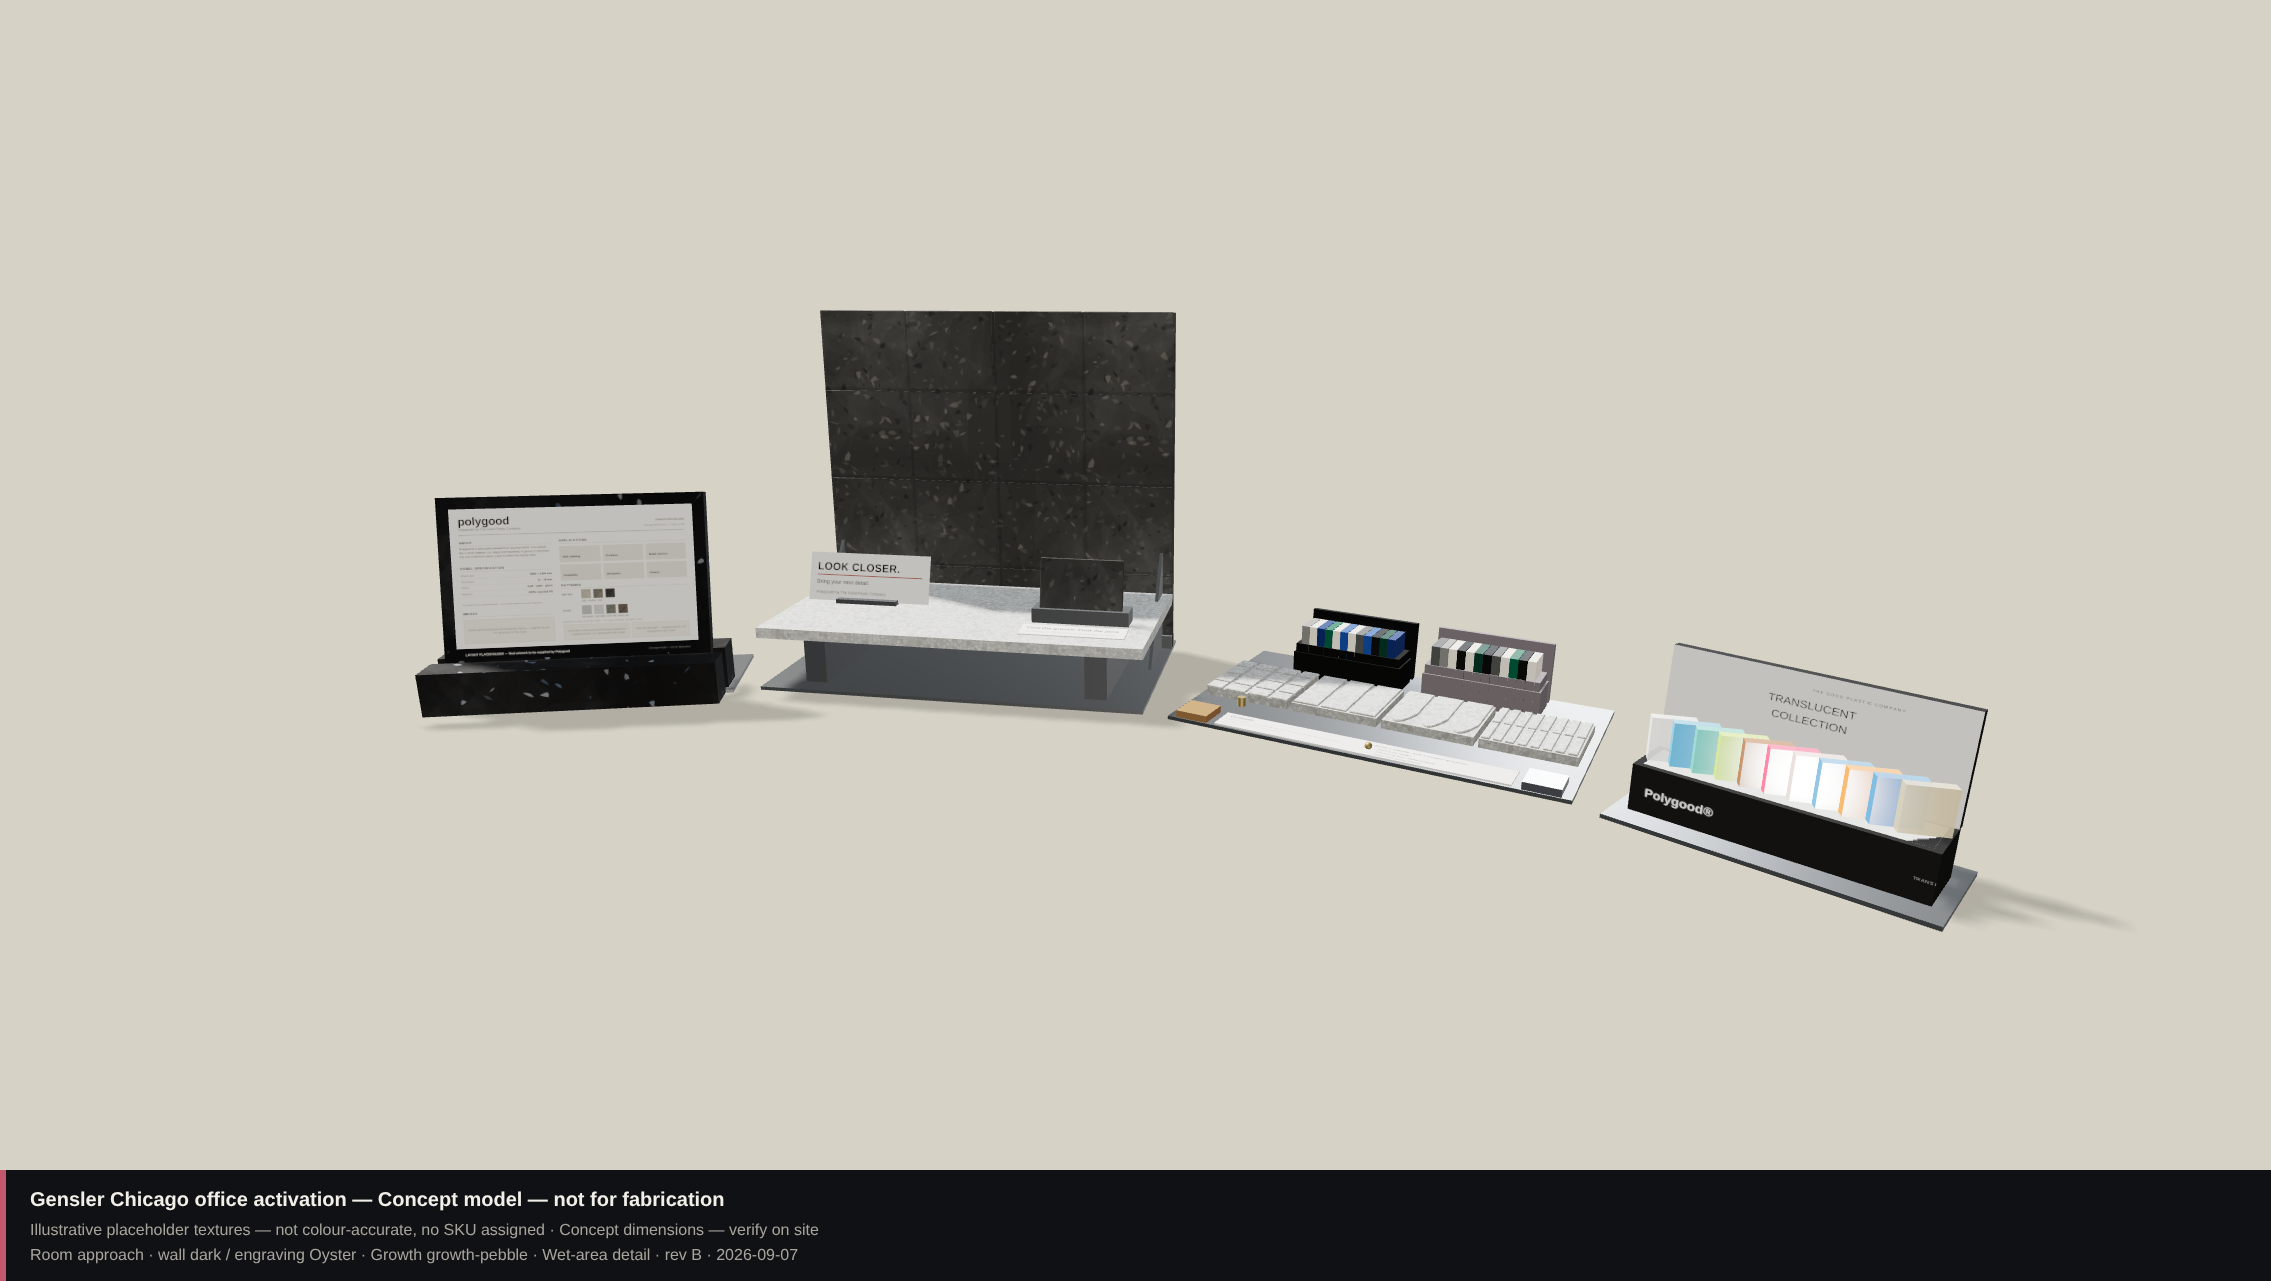
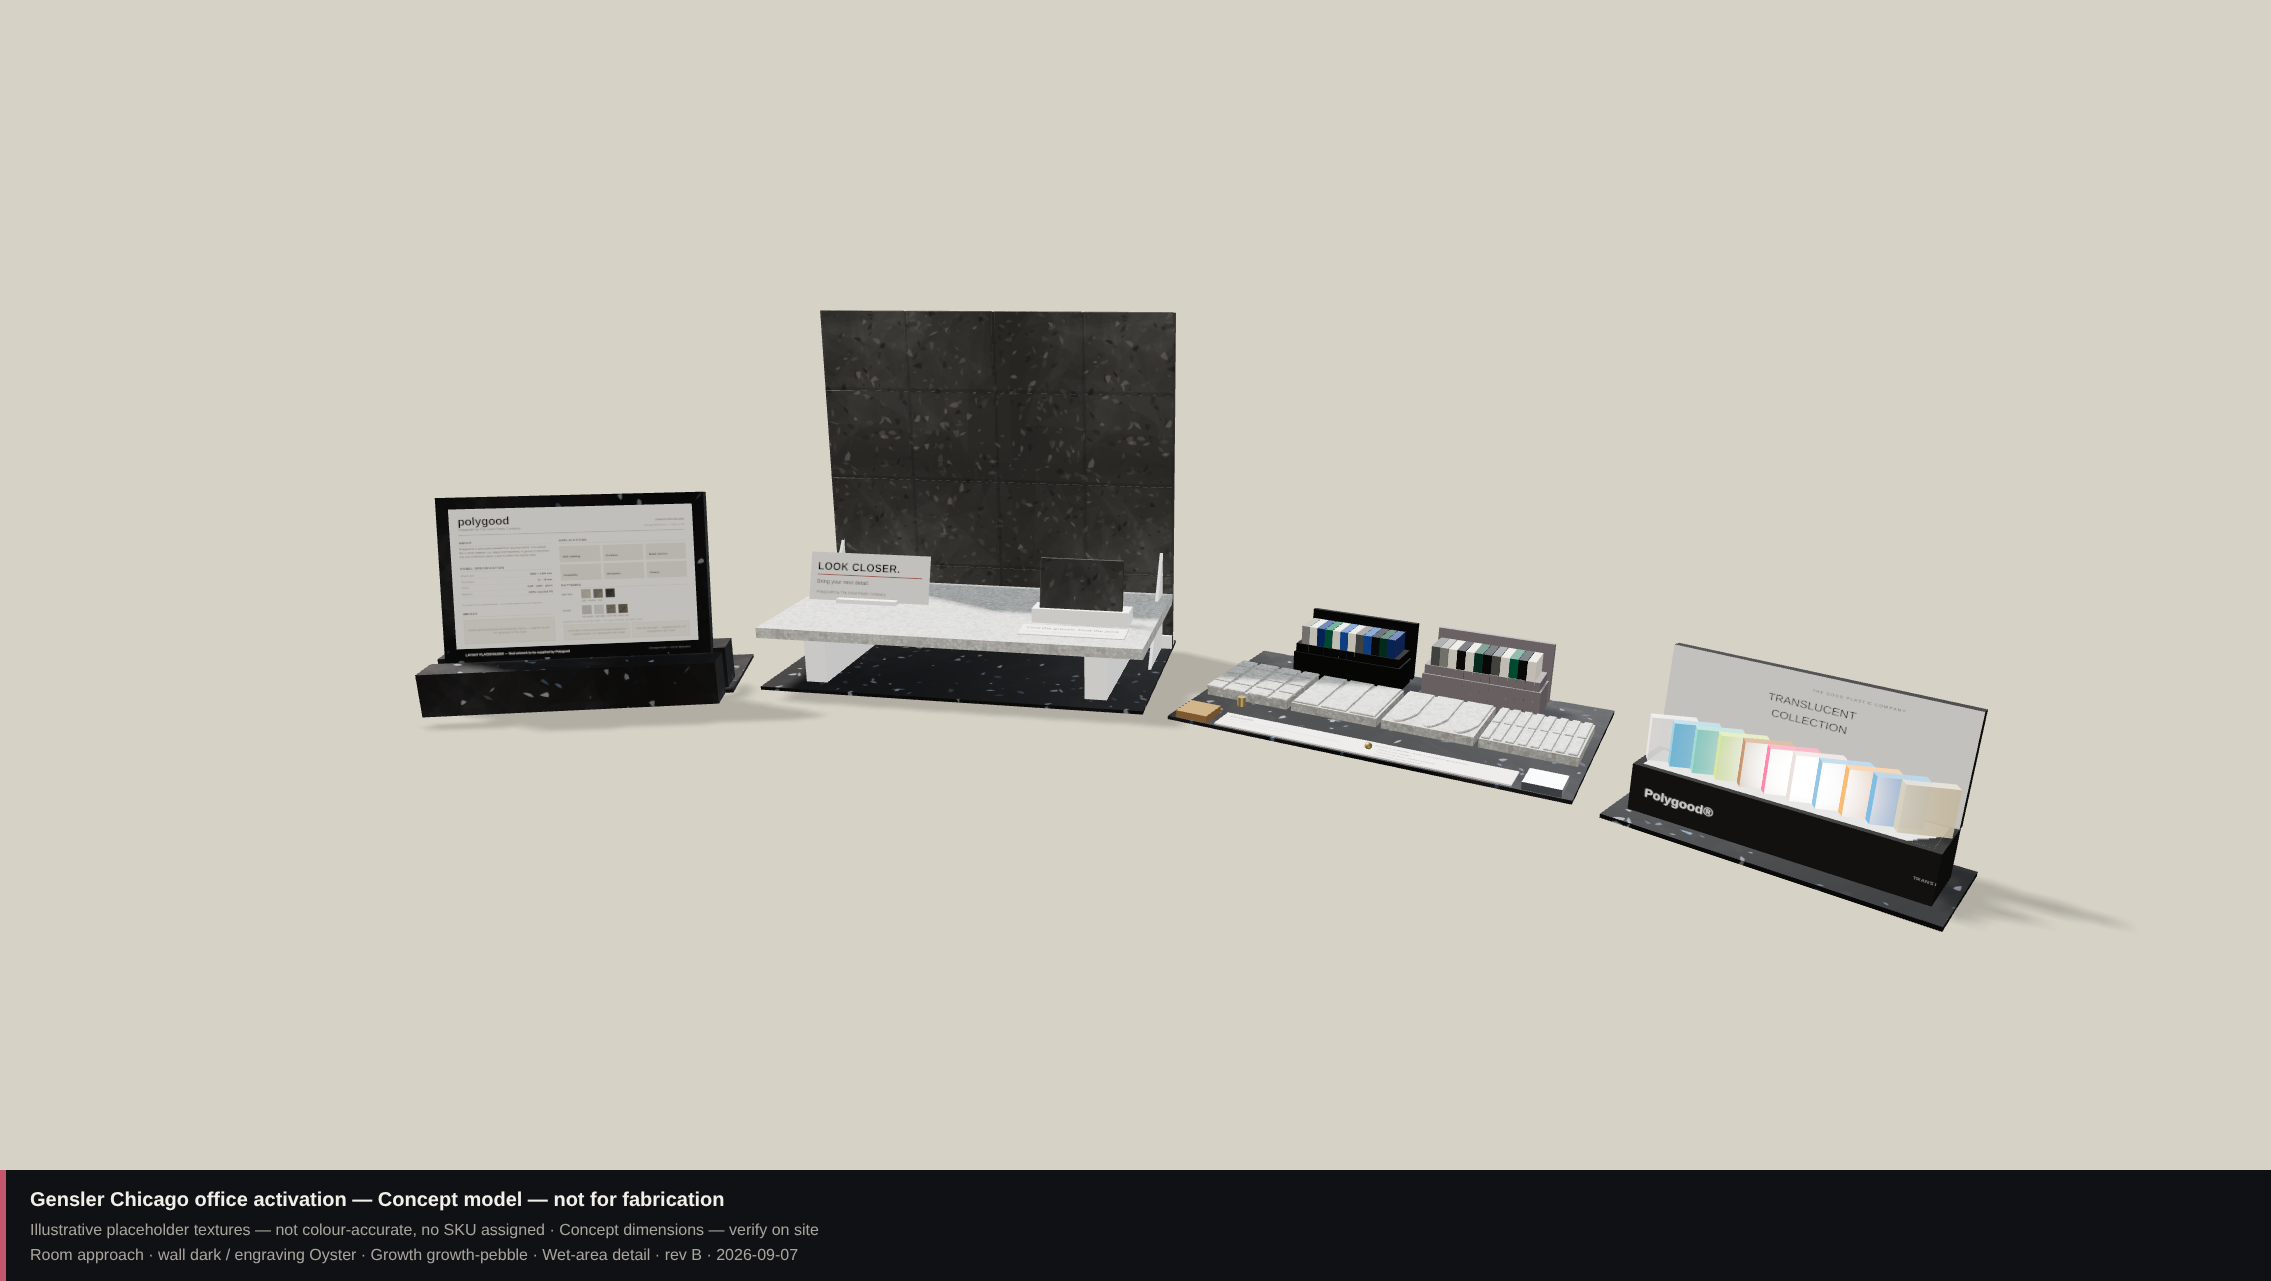
Set the production finish: white stands, black base tile
The support metalwork — trays' structure, rails, fins, gussets, cradles — is
now white, and the base each assembly stands on is a black Polygood panel.
Both live in config.js under `finish`, so the production group can move either
without touching code.

Structure and material are kept as different kinds of thing. `stand` is a paint
or powder-coat colour on the support. `baseTile` names a real surface from
standSurfaces, so the base is built as a PANEL: it carries the texture and is
UV-mapped from its own extents like every other panel in the model. Painting
the base a flat black instead would have made the model quietly misrepresent
what is being ordered — the schedule lists three 500 x 500 dark panels for the
lower part of the pedestal, not a painted tray.

The base uses `nightfleck`, the dark pale-flecked surface supplied as a
photograph. It reads black and stays illustrative: not colour accurate, no SKU.

For the record, the supports have been the same dark grey since the first
commit, so this is a new decision rather than a restoration of an earlier
render. Noted in the README so nobody looks for the render it came from.

Fit check re-run and unchanged: envelope 2368 mm against 1400 mm allocated,
depth still passing.

Claude-Session: https://claude.ai/code/session_01RrtzjYnURxMGb191qk9yjN

Changed region(s): [[0.3082, 0.4684, 0.7089, 0.6245], [0.7089, 0.6245, 0.8014, 0.687], [0.8014, 0.687, 0.8631, 0.7182]]

diff --git a/spaces/gensler-chicago-activation/dist/index.html b/spaces/gensler-chicago-activation/dist/index.html
@@ -390,6 +390,20 @@ window.PG_CONFIG = {
                                 // palette | translucent | orientation | logistics
   },
 
+  /* ── production finish ─────────────────────────────────────────────────
+     The stands are WHITE and the tile they stand on is BLACK. Structure and
+     material are deliberately different things here: `stand` is a paint or
+     powder-coat finish on the support metalwork, while `baseTile` names a
+     real Polygood surface from standSurfaces — the base is a panel, not a
+     painted tray, which is why it carries a texture and the stands do not. */
+  finish: {
+    stand:      '#f4f4f2',    // trays' structure, rails, fins, gussets, cradles
+    standRough: 0.52,
+    standMetal: 0.0,
+    pad:        '#e9e9e6',    // protective contact pads
+    baseTile:   'nightfleck'  // standSurfaces id — the tile beneath
+  },
+
   engravingReferenceSheet: 300,   // assumed sheet size the proportions came from
   engravings: [
     { id: 'oyster',     name: 'Oyster',     ref: '01', shape: 'rect',    cellW: 43,   cellH: 43  },
@@ -1905,9 +1919,27 @@ var sampleMats = CFG.engravings.map(function (e, i) {
   return surfaceMaterial(I.palette.sampleSize, I.palette.sampleSize, 51 + i * 13);
 });
 
-var matTray   = new THREE.MeshStandardMaterial({ color: 0x232527, roughness: 0.44, metalness: 0.62, envMapIntensity: 0.5 });
-var matRail   = new THREE.MeshStandardMaterial({ color: 0x1d1f21, roughness: 0.5,  metalness: 0.55, envMapIntensity: 0.45 });
-var matPad    = new THREE.MeshStandardMaterial({ color: 0x14161a, roughness: 0.95, envMapIntensity: 0.2 });
+/* The stands are white; the tile they stand on is black. Both come from
+   CFG.finish so the production group can move either without touching code.
+   Legacy colour management is on, so every hex here goes through srgb(). */
+var FIN = CFG.finish;
+var matRail = new THREE.MeshStandardMaterial({
+  color: srgb(FIN.stand), roughness: FIN.standRough, metalness: FIN.standMetal, envMapIntensity: 0.42 });
+var matPad  = new THREE.MeshStandardMaterial({
+  color: srgb(FIN.pad), roughness: 0.95, envMapIntensity: 0.2 });
+
+/* The base is a PANEL, not a painted tray, so it carries the surface rather
+   than a flat colour — and it is UV-mapped from its own extents like every
+   other panel, or the tile pattern would stretch to each face. */
+function trayMesh(wM, dM, seed) {
+  var geo = new THREE.BoxGeometry(wM, trayT, dM);
+  PG.planarUV(geo, wM / 2, dM / 2, mm(TILE));
+  var m = surfaceMaterial(wM * 1000, dM * 1000, seed);
+  applySurface(m, FIN.baseTile);
+  var mesh = new THREE.Mesh(geo, m);
+  mesh.castShadow = true; mesh.receiveShadow = true;
+  return mesh;
+}
 var matMarker = new THREE.MeshStandardMaterial({ color: 0x8a6a2e, roughness: 0.35, metalness: 0.8, envMapIntensity: 0.6 });
 function srgb(hex) { return new THREE.Color(hex).convertSRGBToLinear(); }
 
@@ -2018,7 +2050,7 @@ var trayT = mm(6), padT = mm(I.base.padThickness);
   pad.position.set(p[0], padT / 2, p[1]); gMain.add(pad);
 });
 
-var tray = new THREE.Mesh(new THREE.BoxGeometry(A.w, trayT, A.d), matTray);
+var tray = trayMesh(A.w, A.d, 71);
 tray.position.set(0, padT + trayT / 2, -A.d / 2);
 tray.castShadow = true; tray.receiveShadow = true;
 gMain.add(tray);
@@ -2116,7 +2148,7 @@ var B = { w: mm(I.palette.width), d: mm(I.palette.depth) };
   var pad = new THREE.Mesh(new THREE.BoxGeometry(0.06, padT, 0.06), matPad);
   pad.position.set(p[0], padT / 2, p[1]); gPal.add(pad);
 });
-var palTray = new THREE.Mesh(new THREE.BoxGeometry(B.w, trayT, B.d), matTray);
+var palTray = trayMesh(B.w, B.d, 73);
 palTray.position.set(0, padT + trayT / 2, -B.d / 2);
 palTray.castShadow = true; palTray.receiveShadow = true;
 gPal.add(palTray);
@@ -2419,7 +2451,7 @@ var IS = I.infoStand;
     var pad = new THREE.Mesh(new THREE.BoxGeometry(0.055, padT, 0.055), matPad);
     pad.position.set(p[0], padT / 2, p[1]); gInfo.add(pad);
   });
-  var tray = new THREE.Mesh(new THREE.BoxGeometry(mm(IS.unit.width), trayT, mm(IS.unit.depth)), matTray);
+  var tray = trayMesh(mm(IS.unit.width), mm(IS.unit.depth), 79);
   tray.position.set(0, padT + trayT / 2, -mm(IS.unit.depth) / 2);
   tray.castShadow = true; tray.receiveShadow = true; gInfo.add(tray);
 
@@ -2479,7 +2511,7 @@ var transTrayTop = padT + trayT;
   var pad = new THREE.Mesh(new THREE.BoxGeometry(0.055, padT, 0.055), matPad);
   pad.position.set(p[0], padT / 2, p[1]); gTrans.add(pad);
 });
-var transTray = new THREE.Mesh(new THREE.BoxGeometry(mm(TU.width), trayT, mm(TU.depth)), matTray);
+var transTray = trayMesh(mm(TU.width), mm(TU.depth), 83);
 transTray.position.set(0, padT + trayT / 2, -mm(TU.depth) / 2);
 transTray.castShadow = true; transTray.receiveShadow = true;
 gTrans.add(transTray);

diff --git a/spaces/gensler-chicago-activation/installation.js b/spaces/gensler-chicago-activation/installation.js
@@ -132,9 +132,27 @@ var sampleMats = CFG.engravings.map(function (e, i) {
   return surfaceMaterial(I.palette.sampleSize, I.palette.sampleSize, 51 + i * 13);
 });
 
-var matTray   = new THREE.MeshStandardMaterial({ color: 0x232527, roughness: 0.44, metalness: 0.62, envMapIntensity: 0.5 });
-var matRail   = new THREE.MeshStandardMaterial({ color: 0x1d1f21, roughness: 0.5,  metalness: 0.55, envMapIntensity: 0.45 });
-var matPad    = new THREE.MeshStandardMaterial({ color: 0x14161a, roughness: 0.95, envMapIntensity: 0.2 });
+/* The stands are white; the tile they stand on is black. Both come from
+   CFG.finish so the production group can move either without touching code.
+   Legacy colour management is on, so every hex here goes through srgb(). */
+var FIN = CFG.finish;
+var matRail = new THREE.MeshStandardMaterial({
+  color: srgb(FIN.stand), roughness: FIN.standRough, metalness: FIN.standMetal, envMapIntensity: 0.42 });
+var matPad  = new THREE.MeshStandardMaterial({
+  color: srgb(FIN.pad), roughness: 0.95, envMapIntensity: 0.2 });
+
+/* The base is a PANEL, not a painted tray, so it carries the surface rather
+   than a flat colour — and it is UV-mapped from its own extents like every
+   other panel, or the tile pattern would stretch to each face. */
+function trayMesh(wM, dM, seed) {
+  var geo = new THREE.BoxGeometry(wM, trayT, dM);
+  PG.planarUV(geo, wM / 2, dM / 2, mm(TILE));
+  var m = surfaceMaterial(wM * 1000, dM * 1000, seed);
+  applySurface(m, FIN.baseTile);
+  var mesh = new THREE.Mesh(geo, m);
+  mesh.castShadow = true; mesh.receiveShadow = true;
+  return mesh;
+}
 var matMarker = new THREE.MeshStandardMaterial({ color: 0x8a6a2e, roughness: 0.35, metalness: 0.8, envMapIntensity: 0.6 });
 function srgb(hex) { return new THREE.Color(hex).convertSRGBToLinear(); }
 
@@ -245,7 +263,7 @@ var trayT = mm(6), padT = mm(I.base.padThickness);
   pad.position.set(p[0], padT / 2, p[1]); gMain.add(pad);
 });
 
-var tray = new THREE.Mesh(new THREE.BoxGeometry(A.w, trayT, A.d), matTray);
+var tray = trayMesh(A.w, A.d, 71);
 tray.position.set(0, padT + trayT / 2, -A.d / 2);
 tray.castShadow = true; tray.receiveShadow = true;
 gMain.add(tray);
@@ -343,7 +361,7 @@ var B = { w: mm(I.palette.width), d: mm(I.palette.depth) };
   var pad = new THREE.Mesh(new THREE.BoxGeometry(0.06, padT, 0.06), matPad);
   pad.position.set(p[0], padT / 2, p[1]); gPal.add(pad);
 });
-var palTray = new THREE.Mesh(new THREE.BoxGeometry(B.w, trayT, B.d), matTray);
+var palTray = trayMesh(B.w, B.d, 73);
 palTray.position.set(0, padT + trayT / 2, -B.d / 2);
 palTray.castShadow = true; palTray.receiveShadow = true;
 gPal.add(palTray);
@@ -646,7 +664,7 @@ var IS = I.infoStand;
     var pad = new THREE.Mesh(new THREE.BoxGeometry(0.055, padT, 0.055), matPad);
     pad.position.set(p[0], padT / 2, p[1]); gInfo.add(pad);
   });
-  var tray = new THREE.Mesh(new THREE.BoxGeometry(mm(IS.unit.width), trayT, mm(IS.unit.depth)), matTray);
+  var tray = trayMesh(mm(IS.unit.width), mm(IS.unit.depth), 79);
   tray.position.set(0, padT + trayT / 2, -mm(IS.unit.depth) / 2);
   tray.castShadow = true; tray.receiveShadow = true; gInfo.add(tray);
 
@@ -706,7 +724,7 @@ var transTrayTop = padT + trayT;
   var pad = new THREE.Mesh(new THREE.BoxGeometry(0.055, padT, 0.055), matPad);
   pad.position.set(p[0], padT / 2, p[1]); gTrans.add(pad);
 });
-var transTray = new THREE.Mesh(new THREE.BoxGeometry(mm(TU.width), trayT, mm(TU.depth)), matTray);
+var transTray = trayMesh(mm(TU.width), mm(TU.depth), 83);
 transTray.position.set(0, padT + trayT / 2, -mm(TU.depth) / 2);
 transTray.castShadow = true; transTray.receiveShadow = true;
 gTrans.add(transTray);

diff --git a/spaces/gensler-chicago-activation/config.js b/spaces/gensler-chicago-activation/config.js
@@ -180,6 +180,20 @@ window.PG_CONFIG = {
                                 // palette | translucent | orientation | logistics
   },
 
+  /* ── production finish ─────────────────────────────────────────────────
+     The stands are WHITE and the tile they stand on is BLACK. Structure and
+     material are deliberately different things here: `stand` is a paint or
+     powder-coat finish on the support metalwork, while `baseTile` names a
+     real Polygood surface from standSurfaces — the base is a panel, not a
+     painted tray, which is why it carries a texture and the stands do not. */
+  finish: {
+    stand:      '#f4f4f2',    // trays' structure, rails, fins, gussets, cradles
+    standRough: 0.52,
+    standMetal: 0.0,
+    pad:        '#e9e9e6',    // protective contact pads
+    baseTile:   'nightfleck'  // standSurfaces id — the tile beneath
+  },
+
   engravingReferenceSheet: 300,   // assumed sheet size the proportions came from
   engravings: [
     { id: 'oyster',     name: 'Oyster',     ref: '01', shape: 'rect',    cellW: 43,   cellH: 43  },

diff --git a/spaces/gensler-chicago-activation/README.md b/spaces/gensler-chicago-activation/README.md
@@ -62,6 +62,31 @@ Adding a surface to `config.js` adds a button. The stand's own surface lives in
 a separate list (`standSurfaces`) precisely so it does not turn up among the
 tile choices.
 
+### Production finish — white stands, black base tile
+
+`config.js` → `finish` carries the concept the production group is being shown:
+the **support metalwork is white**, and the **tile it stands on is black**.
+
+```js
+finish: { stand: '#f4f4f2', pad: '#e9e9e6', baseTile: 'nightfleck' }
+```
+
+Structure and material are deliberately different kinds of thing here.
+`stand` is a **paint or powder-coat colour** on the trays, rails, fins,
+gussets and cradles. `baseTile` names a **Polygood surface** from
+`standSurfaces` — the base is a panel, not a painted tray, which is why it
+carries a texture and is UV-mapped from its own extents like every other
+panel. Painting the base instead of specifying it as a panel would have made
+the model quietly lie about what is being ordered.
+
+The base currently uses `nightfleck`, the dark, pale-flecked surface supplied
+as a photograph. It reads black and is illustrative — not colour accurate, no
+SKU. If "Midnight" turns out to be a real product name, that is the value to
+put here.
+
+Note for the record: the supports have been the same dark grey since the first
+commit, so this is a **new decision**, not a restoration of an earlier render.
+
 ### Seeing it without the room
 
 **Installation only** hides the venue and stands the four sub-assemblies on a
